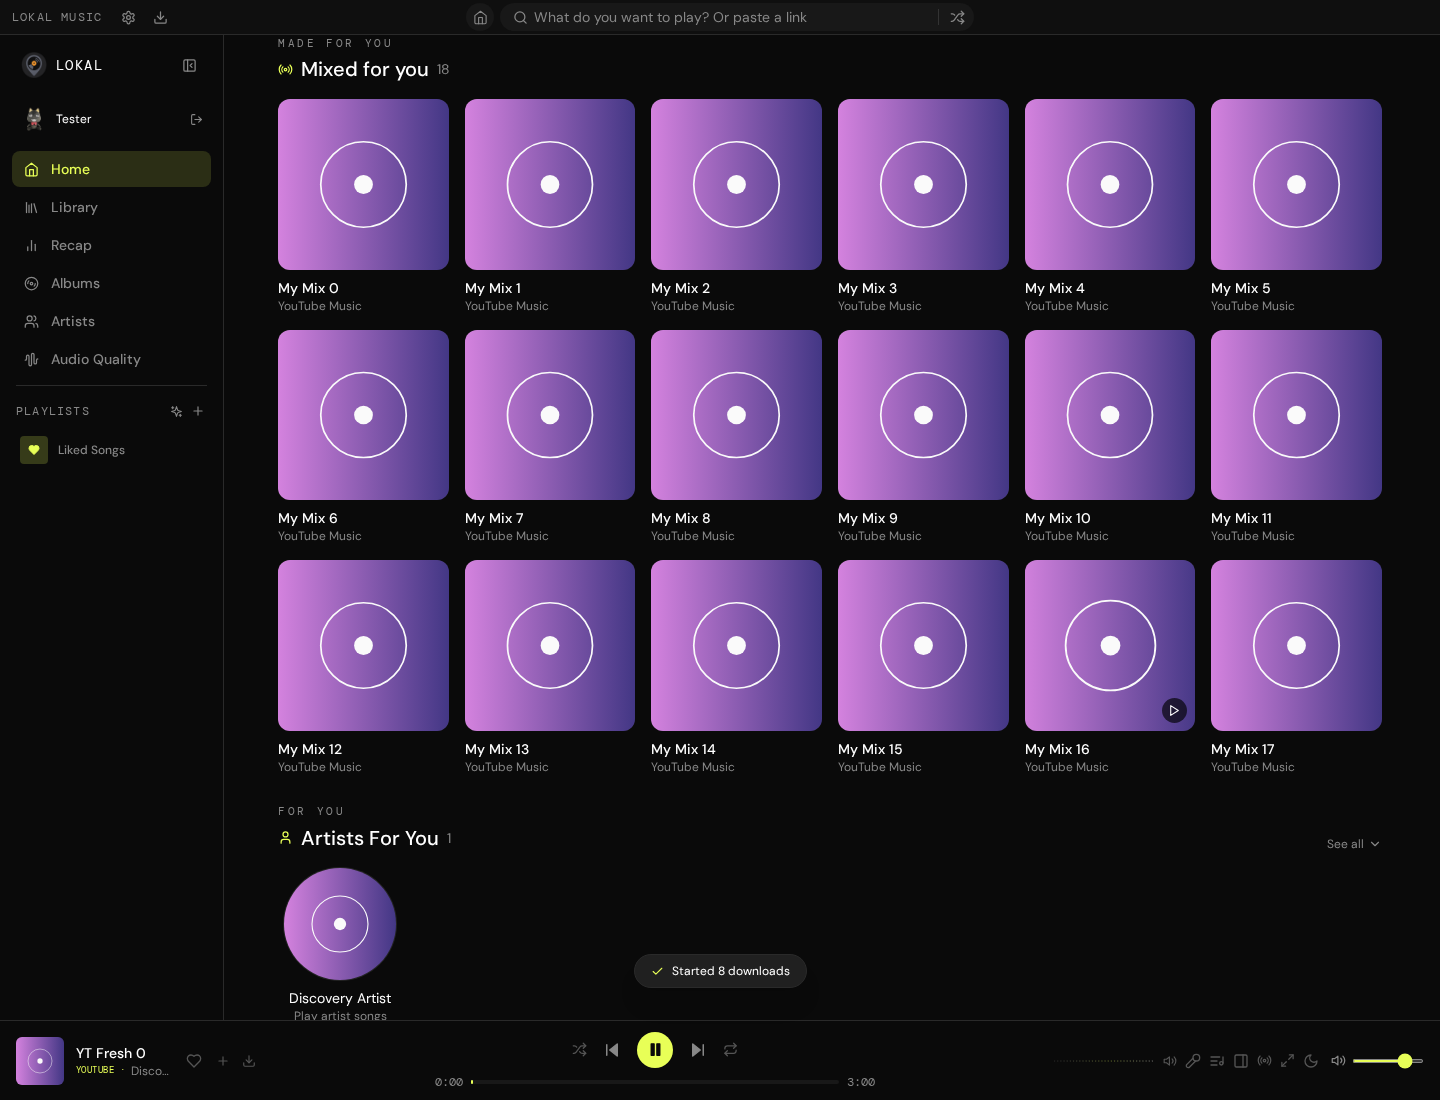
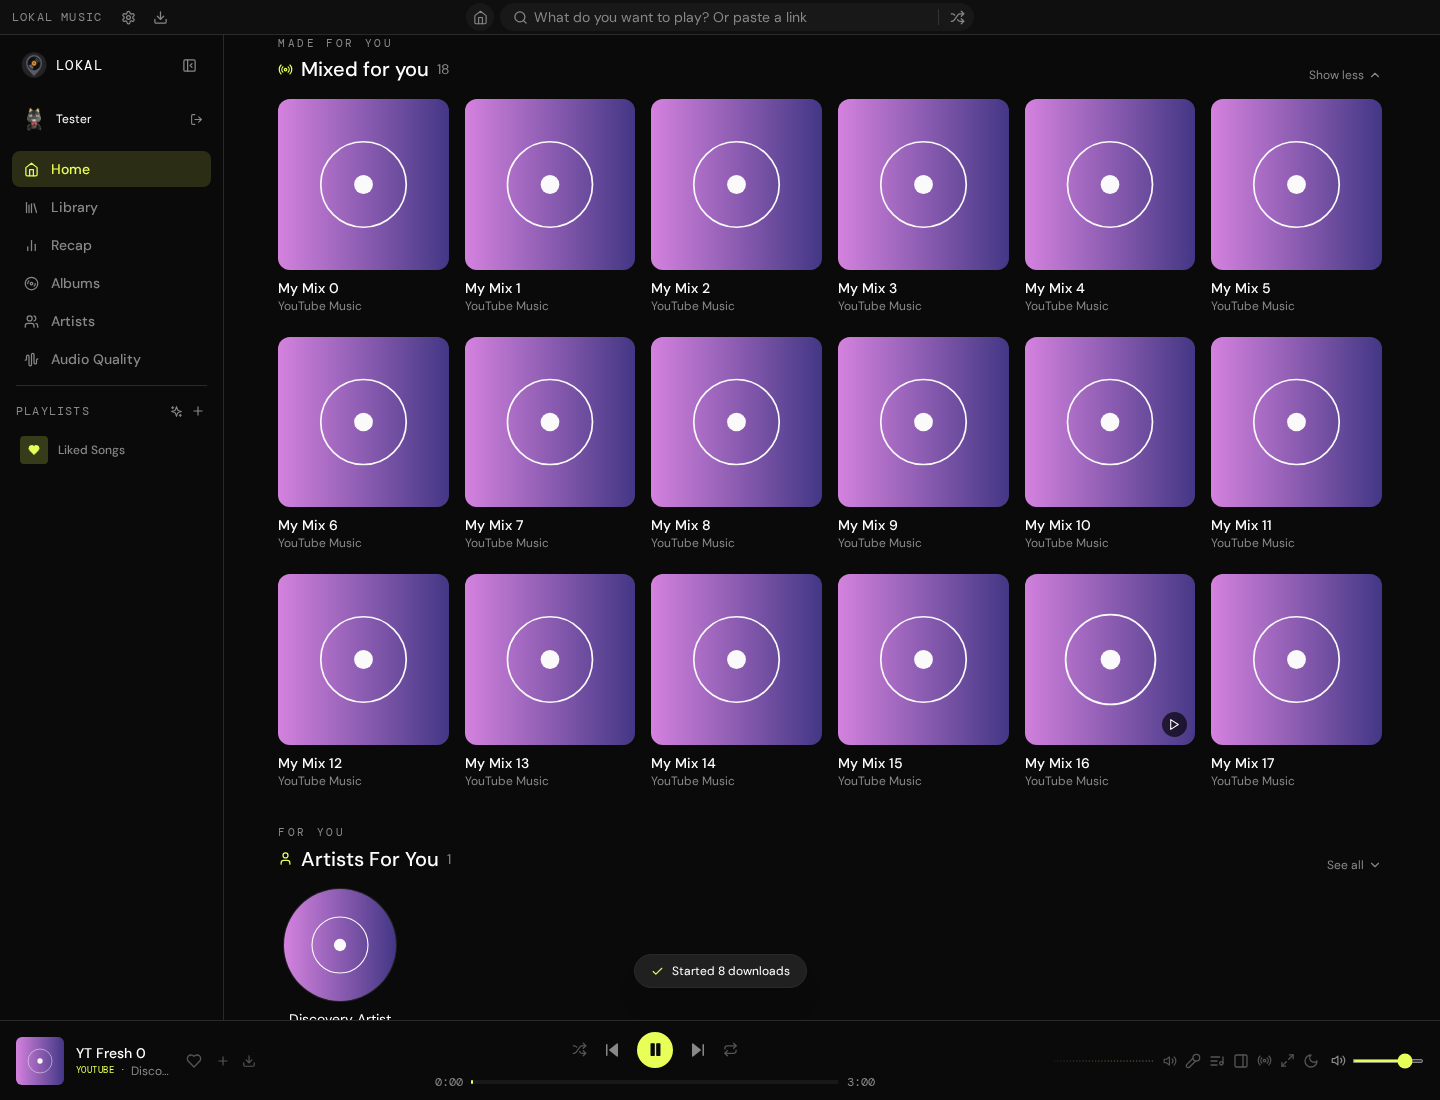
Preserve YouTube track identity and collapse personalized mixes

diff --git a/src/pages/Home.jsx b/src/pages/Home.jsx
@@ -112,7 +112,7 @@ function ArtistRecommendation({ artist, onClick, onContextMenu }) {
 
 function AlbumRecommendation({ album, onClick, onContextMenu }) {
   const image = secureImage(album?.artwork_url)
-  return <button type="button" onClick={() => onClick(album)} onContextMenu={event => onContextMenu?.(event, album)} className="group min-w-0 text-left">
+  return <button type="button" onClick={() => onClick(album)} onContextMenu={event => onContextMenu?.(event, album)} className="group w-full min-w-0 text-left">
     <div className="relative aspect-square overflow-hidden rounded-xl bg-card"><DiscoveryImage item={album} type="album" src={image} className="h-full w-full object-cover transition-transform group-hover:scale-105" fallback={<div className="flex h-full items-center justify-center text-muted"><Disc3 size={30} /></div>} /><span className="absolute bottom-2 right-2 rounded-full bg-black/65 p-1.5 text-white opacity-0 transition-opacity group-hover:opacity-100"><Play size={13} /></span></div>
     <p className="mt-2 truncate text-sm font-medium text-white">{album.title}</p><p className="truncate text-xs text-muted">{album.artist}</p>
   </button>
@@ -164,7 +164,7 @@ function RecommendationSections({ data, source: selectedSource, loading, error, 
     {fresh.length > 0 && <section><SectionHeader icon={Music} eyebrow="Fresh Finds" title="Fresh Finds" count={fresh.length} subtitle={`More music from ${source}.`} onExpand={() => toggle('fresh')} expanded={activeSection === 'fresh'} action={<button type="button" aria-label="Save Fresh Finds as a playlist" title="Save Fresh Finds as a playlist" onClick={onSaveFresh} disabled={!!saving} className="inline-flex h-7 w-7 items-center justify-center rounded-full text-accent hover:bg-accent/10 hover:text-accent/70 disabled:opacity-50">{saving === 'fresh-finds' ? <span className="h-3.5 w-3.5 animate-spin rounded-full border-2 border-accent/30 border-t-accent" /> : <ListPlus size={15} />}</button>} /><div className="grid gap-2 @md:grid-cols-2 @lg:grid-cols-3">{(activeSection === 'fresh' ? fresh : fresh.slice(0, 6)).map(track => <DiscoveryTrack key={songKey(track)} track={track} getDownloadTrack={getDownloadTrack} onPlay={item => onPlay(item, 'fresh')} onRadio={onRadio} onContextMenu={(event, item) => onTrackMenu(event, item, 'fresh')} />)}</div></section>}
     {secondary.length > 0 && <section><SectionHeader icon={Sparkles} eyebrow={selectedSource === 'youtube' ? 'Recently liked' : 'Jump back in'} title={selectedSource === 'youtube' ? 'YouTube Music Likes' : 'Quick Picks'} count={secondary.length} subtitle={selectedSource === 'youtube' ? 'Your 30 most recently liked tracks on YouTube Music.' : 'Tracks you scrobbled most often over the past week.'} onExpand={() => toggle(secondaryKey)} expanded={activeSection === secondaryKey} action={<button type="button" aria-label={`Save ${selectedSource === 'youtube' ? 'YouTube Music Likes' : 'Quick Picks'} as a playlist`} title={`Save ${selectedSource === 'youtube' ? 'YouTube Music Likes' : 'Quick Picks'} as a playlist`} onClick={onSaveQuick} disabled={!!saving} className="inline-flex h-7 w-7 items-center justify-center rounded-full text-accent hover:bg-accent/10 hover:text-accent/70 disabled:opacity-50">{saving === (selectedSource === 'youtube' ? 'youtube-likes' : 'quick-picks') ? <span className="h-3.5 w-3.5 animate-spin rounded-full border-2 border-accent/30 border-t-accent" /> : <ListPlus size={15} />}</button>} /><div className="grid gap-2 @md:grid-cols-2 @lg:grid-cols-3">{(activeSection === secondaryKey ? secondary : secondary.slice(0, 6)).map(track => <DiscoveryTrack key={songKey(track)} track={track} getDownloadTrack={getDownloadTrack} onPlay={item => onPlay(item, secondaryKey)} onRadio={onRadio} onContextMenu={(event, item) => onTrackMenu(event, item, secondaryKey)} />)}</div></section>}
     {history.length > 0 && <section><SectionHeader icon={History} eyebrow="History" title={selectedSource === 'youtube' ? 'YouTube Music History' : 'Scrobble History'} count={history.length} subtitle={selectedSource === 'youtube' ? 'Recent tracks from your YouTube Music listening history.' : 'Your last 100 provider scrobbles, grouped by date.'} onExpand={() => toggle('history')} expanded={activeSection === 'history'} />{selectedSource === 'youtube' ? <TrackList tracks={recommendationRows(activeSection === 'history' ? history : history.slice(0, 6))} resolveTracks={resolveTracks} reduceMotion context={{ type: 'discovery', name: 'YouTube Music History' }} /> : <ScrobbleHistory entries={activeSection === 'history' ? history : history.slice(0, 6)} resolveTracks={resolveTracks} />}</section>}
-    {selectedSource === 'youtube' && data && <section><SectionHeader icon={Radio} eyebrow="Made for you" title="Mixed for you" count={providerMixes.length || null} />{providerMixes.length ? <div className="grid grid-cols-2 gap-4 @md:grid-cols-3 @lg:grid-cols-6">{providerMixes.map(mix => <AlbumRecommendation key={mix.id} album={{ ...mix, artist: mix.author || 'YouTube Music' }} onClick={() => onProviderMixPlay(mix)} onContextMenu={event => onProviderMixMenu(event, mix)} />)}</div> : <p role="status" className="rounded-xl border border-border bg-elevated p-4 text-sm text-muted">{loading ? 'Loading your YouTube Music mixes…' : data.mixError ? `Could not load your YouTube Music mixes. ${data.mixError}` : 'YouTube Music did not return your personalized mixes. Refresh to try again.'}</p>}</section>}
+    {selectedSource === 'youtube' && data && <section><SectionHeader icon={Radio} eyebrow="Made for you" title="Mixed for you" count={providerMixes.length || null} onExpand={providerMixes.length ? () => toggle('mixes') : undefined} expanded={activeSection === 'mixes'} />{providerMixes.length ? <div className="grid grid-cols-2 gap-4 @md:grid-cols-3 @lg:grid-cols-6">{(activeSection === 'mixes' ? providerMixes : providerMixes.slice(0, 6)).map((mix, index) => <div key={mix.id} className={activeSection === 'mixes' || index < 2 ? '' : index < 3 ? 'hidden @md:block' : 'hidden @lg:block'}><AlbumRecommendation album={{ ...mix, artist: mix.author || 'YouTube Music' }} onClick={() => onProviderMixPlay(mix)} onContextMenu={event => onProviderMixMenu(event, mix)} /></div>)}</div> : <p role="status" className="rounded-xl border border-border bg-elevated p-4 text-sm text-muted">{loading ? 'Loading your YouTube Music mixes…' : data.mixError ? `Could not load your YouTube Music mixes. ${data.mixError}` : 'YouTube Music did not return your personalized mixes. Refresh to try again.'}</p>}</section>}
     {selectedSource !== 'youtube' && albums.length > 0 && <section><SectionHeader icon={Disc3} eyebrow="Rotation" title="Albums For You" count={albums.length} onExpand={() => toggle('albums')} expanded={activeSection === 'albums'} /><div className="grid grid-cols-2 gap-4 @md:grid-cols-3 @lg:grid-cols-6">{(activeSection === 'albums' ? albums : albums.slice(0, 6)).map(album => <AlbumRecommendation key={`${album.artist}-${album.title}`} album={album} onClick={onAlbumPlay} onContextMenu={onAlbumMenu} />)}</div></section>}
     {artists.length > 0 && <section><SectionHeader icon={User} eyebrow="For You" title="Artists For You" count={artists.length} onExpand={() => toggle('artists')} expanded={activeSection === 'artists'} /><div className="grid grid-cols-3 gap-4 @sm:grid-cols-4 @md:grid-cols-6 @lg:grid-cols-8">{(activeSection === 'artists' ? artists : artists.slice(0, 8)).map(artist => <ArtistRecommendation key={artist.name} artist={artist} onClick={onArtistPlay} onContextMenu={onArtistMenu} />)}</div></section>}
   </div>

diff --git a/src/recommendations.js b/src/recommendations.js
@@ -1,6 +1,6 @@
 import { api } from './api.js'
 import { DEFAULT_PLAYBACK_SOURCES, orderedPlaybackSources } from './playbackSources.js'
-import { isPlayable, providerLabel } from './onlineTracks.js'
+import { isPlayable, providerLabel, streamRef } from './onlineTracks.js'
 
 export const recommendationKey = value => String(value || '').normalize('NFKD').replace(/\p{M}/gu, '').toLowerCase().replace(/[^\p{L}\p{N}]+/gu, ' ').trim()
 export const songKey = track => `${recommendationKey(track?.artist)}\0${recommendationKey(track?.title)}`
@@ -36,17 +36,37 @@ export function recommendationMatch(candidate, results) {
   const title = titleKey(candidate?.title)
   const artist = recommendationKey(candidate?.artist)
   if (!title || !artist) return null
+  const leadArtist = recommendationKey(candidate.artists?.[0] || candidate.artist).replace(/ topic$/, '')
   // Require both title and artist. A catalogue search is playback resolution,
   // not a second recommendation engine. Covers/remixes must not replace songs.
   return (Array.isArray(results) ? results : []).find(result => {
     const name = String(result?.title || '')
     const prefix = name.match(/^(.+?)\s+[-–—|]\s+(.+)$/)
-    const resultTitle = prefix && recommendationKey(prefix[1]) === artist ? prefix[2] : name
+    const resultTitle = prefix && [artist, leadArtist].includes(recommendationKey(prefix[1])) ? prefix[2] : name
     if (titleKey(resultTitle) !== title) return false
     const artists = Array.isArray(result.artists) ? result.artists : [result.artist]
-    return artists.some(name => recommendationKey(name).replace(/ topic$/, '') === artist)
+    return artists.some(name => recommendationKey(name).replace(/ topic$/, '') === leadArtist)
       || recommendationKey(result.artist).replace(/ topic$/, '') === artist
   }) || null
+}
+
+/** Preserve native YouTube identity across DB rows, provider fallbacks and restored queues. */
+export function recommendationVideoId(track) {
+  const valid = value => /^[\w-]{11}$/.test(String(value || '')) ? String(value) : null
+  if (valid(track?.videoId)) return String(track.videoId)
+  const ref = streamRef(track)
+  if (ref?.provider === 'yt' && valid(ref.id)) return ref.id
+  const saved = String(track?.source_ref || '').match(/^yt:([\w-]{11})$/)
+  if (saved) return saved[1]
+  if (track?.provider === 'yt' && valid(track.id)) return String(track.id)
+  for (const link of [track?.source_url, track?.url]) {
+    try {
+      const url = new URL(link)
+      const id = url.hostname === 'youtu.be' ? url.pathname.slice(1) : /^(?:music\.|www\.)?youtube\.com$/.test(url.hostname) ? url.searchParams.get('v') : null
+      if (valid(id)) return id
+    } catch {}
+  }
+  return null
 }
 
 export async function timed(work, ms = 15000) {
@@ -94,6 +114,7 @@ export async function resolveRecommendationTracks(candidates, client = api, { se
   return (await mapLimited(uniqueSongs(candidates), async candidate => {
     if (!isCurrent()) return null
     if (reusePlayable && playableRecommendation(candidate)) return candidate
+    const videoId = recommendationVideoId(candidate)
     try {
       const local = searchLocal ? await timed(() => client.searchTracks(candidate.title), timeoutMs).catch(() => null) : null
       const rows = Array.isArray(local) ? local : Array.isArray(local?.tracks) ? local.tracks : []
@@ -105,12 +126,12 @@ export async function resolveRecommendationTracks(candidates, client = api, { se
           if (!isCurrent()) return null
           const failed = (reason, detail) => { if (isCurrent()) onProviderFailure?.({ candidate, source, nextSource: sources[index + 1], reason, ...(detail ? { detail } : {}) }) }
           try {
-            if (isCurrent()) onProgress?.(`Searching ${source.label || providerLabel(source.id)} for ${candidate.artist} — “${candidate.title}”…`)
-            const direct = source.id === 'yt' && candidate.videoId
+            const direct = source.id === 'yt' && videoId
+            if (isCurrent()) onProgress?.(`${direct ? 'Loading' : 'Searching'} ${source.label || providerLabel(source.id)} ${direct ? 'track' : 'for'} ${candidate.artist} — “${candidate.title}”…`)
             const response = direct ? null : await timed(() => client.onlineSearch(`${candidate.artist} ${candidate.title}`, source.id), timeoutMs)
             if (!isCurrent()) return null
             if (response?.error) { failed('unavailable', response.error); continue }
-            const match = direct ? { ...candidate, provider: 'yt', id: candidate.videoId } : recommendationMatch(candidate, response?.results)
+            const match = direct ? { ...candidate, videoId, provider: 'yt', id: videoId } : recommendationMatch(candidate, response?.results)
             if (!isCurrent()) return null
             if (!match) { failed('not-found'); continue }
             let detail
@@ -128,6 +149,8 @@ export async function resolveRecommendationTracks(candidates, client = api, { se
       }
       return row && isCurrent() ? {
         ...row, title: candidate.title, artist: candidate.artist,
+        ...(videoId ? { videoId } : {}),
+        ...(candidate.artists?.length ? { artists: candidate.artists } : {}),
         album: candidate.album || row.album,
         artwork_url: candidate.artwork_url || row.artwork_url,
         source: candidate.source || 'lastfm', reason: candidate.reason,
